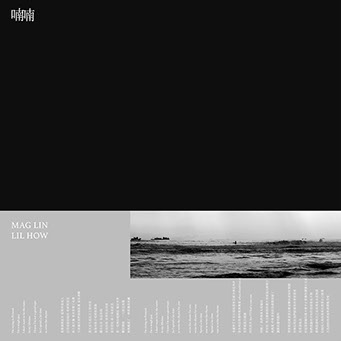
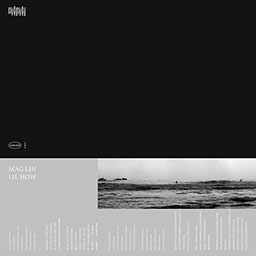
kkkk

diff --git a/subclub/css/site_global.css b/subclub/css/site_global.css
@@ -1,1 +1,1 @@
-html{min-height:100%;min-width:100%;-ms-text-size-adjust:none;}body,div,dl,dt,dd,ul,ol,li,nav,h1,h2,h3,h4,h5,h6,pre,code,form,fieldset,legend,input,button,textarea,p,blockquote,th,td,a{margin:0px;padding:0px;border-width:0px;border-style:solid;border-color:transparent;-webkit-transform-origin:left top;-ms-transform-origin:left top;-o-transform-origin:left top;transform-origin:left top;background-repeat:no-repeat;}button.submit-btn{-moz-box-sizing:content-box;-webkit-box-sizing:content-box;box-sizing:content-box;}.transition{-webkit-transition-property:background-image,background-position,background-color,border-color,border-radius,color,font-size,font-style,font-weight,letter-spacing,line-height,text-align,box-shadow,text-shadow,opacity;transition-property:background-image,background-position,background-color,border-color,border-radius,color,font-size,font-style,font-weight,letter-spacing,line-height,text-align,box-shadow,text-shadow,opacity;}.transition *{-webkit-transition:inherit;transition:inherit;}table{border-collapse:collapse;border-spacing:0px;}fieldset,img{border:0px;border-style:solid;-webkit-transform-origin:left top;-ms-transform-origin:left top;-o-transform-origin:left top;transform-origin:left top;}address,caption,cite,code,dfn,em,strong,th,var,optgroup{font-style:inherit;font-weight:inherit;}del,ins{text-decoration:none;}li{list-style:none;}caption,th{text-align:left;}h1,h2,h3,h4,h5,h6{font-size:100%;font-weight:inherit;}input,button,textarea,select,optgroup,option{font-family:inherit;font-size:inherit;font-style:inherit;font-weight:inherit;}.form-grp input,.form-grp textarea{-webkit-appearance:none;-webkit-border-radius:0;}body{font-family:Arial, Helvetica Neue, Helvetica, sans-serif;text-align:left;font-size:14px;line-height:17px;word-wrap:break-word;text-rendering:optimizeLegibility;-moz-font-feature-settings:'liga';-ms-font-feature-settings:'liga';-webkit-font-feature-settings:'liga';font-feature-settings:'liga';}a{color:inherit;text-decoration:inherit;}a:link{color:#FFFFFF;text-decoration:underline;}a:visited{color:#FFFFFF;text-decoration:underline;}a:hover{color:#FFFFFF;text-decoration:underline;}a:active{color:#FFFFFF;text-decoration:underline;}a.nontext{color:black;text-decoration:none;font-style:normal;font-weight:normal;}.normal_text{color:#000000;direction:ltr;font-family:Arial, Helvetica Neue, Helvetica, sans-serif;font-size:14px;font-style:normal;font-weight:normal;letter-spacing:0px;line-height:17px;text-align:left;text-decoration:none;text-indent:0px;text-transform:none;vertical-align:0px;padding:0px;}.list0 li:before{position:absolute;right:100%;letter-spacing:0px;text-decoration:none;font-weight:normal;font-style:normal;}.rtl-list li:before{right:auto;left:100%;}.nls-None > li:before,.nls-None .list3 > li:before,.nls-None .list6 > li:before{margin-right:6px;content:'•';}.nls-None .list1 > li:before,.nls-None .list4 > li:before,.nls-None .list7 > li:before{margin-right:6px;content:'○';}.nls-None,.nls-None .list1,.nls-None .list2,.nls-None .list3,.nls-None .list4,.nls-None .list5,.nls-None .list6,.nls-None .list7,.nls-None .list8{padding-left:34px;}.nls-None.rtl-list,.nls-None .list1.rtl-list,.nls-None .list2.rtl-list,.nls-None .list3.rtl-list,.nls-None .list4.rtl-list,.nls-None .list5.rtl-list,.nls-None .list6.rtl-list,.nls-None .list7.rtl-list,.nls-None .list8.rtl-list{padding-left:0px;padding-right:34px;}.nls-None .list2 > li:before,.nls-None .list5 > li:before,.nls-None .list8 > li:before{margin-right:6px;content:'-';}.nls-None.rtl-list > li:before,.nls-None .list1.rtl-list > li:before,.nls-None .list2.rtl-list > li:before,.nls-None .list3.rtl-list > li:before,.nls-None .list4.rtl-list > li:before,.nls-None .list5.rtl-list > li:before,.nls-None .list6.rtl-list > li:before,.nls-None .list7.rtl-list > li:before,.nls-None .list8.rtl-list > li:before{margin-right:0px;margin-left:6px;}.TabbedPanelsTab{white-space:nowrap;}.MenuBar .MenuBarView,.MenuBar .SubMenuView{display:block;list-style:none;}.MenuBar .SubMenu{display:none;position:absolute;}.NoWrap{white-space:nowrap;word-wrap:normal;}.rootelem{margin-left:auto;margin-right:auto;}.colelem{display:inline;float:left;clear:both;}.clearfix:after{content:"\0020";visibility:hidden;display:block;height:0px;clear:both;}*:first-child+html .clearfix{zoom:1;}.clip_frame{overflow:hidden;}.popup_anchor{position:relative;width:0px;height:0px;}.allow_click_through *{pointer-events:auto;}.popup_element{z-index:100000;}.svg{display:block;vertical-align:top;}span.wrap{content:'';clear:left;display:block;}span.actAsInlineDiv{display:inline-block;}.position_content,.excludeFromNormalFlow{float:left;}.preload_images{position:absolute;overflow:hidden;left:-9999px;top:-9999px;height:1px;width:1px;}.preload{height:1px;width:1px;}.animateStates{-webkit-transition:0.3s ease-in-out;-moz-transition:0.3s ease-in-out;-o-transition:0.3s ease-in-out;transition:0.3s ease-in-out;}[data-whatinput="mouse"] *:focus,[data-whatinput="touch"] *:focus,input:focus,textarea:focus{outline:none;}textarea{resize:none;overflow:auto;}.allow_click_through,.fld-prompt{pointer-events:none;}.wrapped-input{position:absolute;top:0px;left:0px;background:transparent;border:none;}.submit-btn{z-index:50000;cursor:pointer;}.anchor_item{width:22px;height:18px;}.MenuBar .SubMenuVisible,.MenuBarVertical .SubMenuVisible,.MenuBar .SubMenu .SubMenuVisible,.popup_element.Active,span.actAsPara,.actAsDiv,a.nonblock.nontext,img.block{display:block;}.widget_invisible,.js .invi,.js .mse_pre_init{visibility:hidden;}.ose_ei{visibility:hidden;z-index:0;}.no_vert_scroll{overflow-y:hidden;}.always_vert_scroll{overflow-y:scroll;}.always_horz_scroll{overflow-x:scroll;}.fullscreen{overflow:hidden;left:0px;top:0px;position:fixed;height:100%;width:100%;-moz-box-sizing:border-box;-webkit-box-sizing:border-box;-ms-box-sizing:border-box;box-sizing:border-box;}.fullwidth{position:absolute;}.borderbox{-moz-box-sizing:border-box;-webkit-box-sizing:border-box;-ms-box-sizing:border-box;box-sizing:border-box;}.scroll_wrapper{position:absolute;overflow:auto;left:0px;right:0px;top:0px;bottom:0px;padding-top:0px;padding-bottom:0px;margin-top:0px;margin-bottom:0px;}.browser_width > *{position:absolute;left:0px;right:0px;}.grpelem,.accordion_wrapper{display:inline;float:left;}.fld-checkbox input[type=checkbox],.fld-radiobutton input[type=radio]{position:absolute;overflow:hidden;clip:rect(0px, 0px, 0px, 0px);height:1px;width:1px;margin:-1px;padding:0px;border:0px;}.fld-checkbox input[type=checkbox] + label,.fld-radiobutton input[type=radio] + label{display:inline-block;background-repeat:no-repeat;cursor:pointer;float:left;width:100%;height:100%;}.pointer_cursor,.fld-recaptcha-mode,.fld-recaptcha-refresh,.fld-recaptcha-help{cursor:pointer;}p,h1,h2,h3,h4,h5,h6,ol,ul,span.actAsPara{max-height:1000000px;}.superscript{vertical-align:super;font-size:66%;line-height:0px;}.subscript{vertical-align:sub;font-size:66%;line-height:0px;}.horizontalSlideShow{-ms-touch-action:pan-y;touch-action:pan-y;}.verticalSlideShow{-ms-touch-action:pan-x;touch-action:pan-x;}.colelem100,.verticalspacer{clear:both;}.list0 li,.MenuBar .MenuItemContainer,.SlideShowContentPanel .fullscreen img,.css_verticalspacer .verticalspacer{position:relative;}.popup_element.Inactive,.js .disn,.js .an_invi,.hidden,.breakpoint{display:none;}#muse_css_mq{position:absolute;display:none;background-color:#FFFFFE;}.fluid_height_spacer{width:0.01px;}.muse_check_css{display:none;position:fixed;}@media screen and (-webkit-min-device-pixel-ratio:0){body{text-rendering:auto;}}
+html{min-height:100%;min-width:100%;-ms-text-size-adjust:none;}body,div,dl,dt,dd,ul,ol,li,nav,h1,h2,h3,h4,h5,h6,pre,code,form,fieldset,legend,input,button,textarea,p,blockquote,th,td,a{margin:0px;padding:0px;border-width:0px;border-style:solid;border-color:transparent;-webkit-transform-origin:left top;-ms-transform-origin:left top;-o-transform-origin:left top;transform-origin:left top;background-repeat:no-repeat;}button.submit-btn{-moz-box-sizing:content-box;-webkit-box-sizing:content-box;box-sizing:content-box;}.transition{-webkit-transition-property:background-image,background-position,background-color,border-color,border-radius,color,font-size,font-style,font-weight,letter-spacing,line-height,text-align,box-shadow,text-shadow,opacity;transition-property:background-image,background-position,background-color,border-color,border-radius,color,font-size,font-style,font-weight,letter-spacing,line-height,text-align,box-shadow,text-shadow,opacity;}.transition *{-webkit-transition:inherit;transition:inherit;}table{border-collapse:collapse;border-spacing:0px;}fieldset,img{border:0px;border-style:solid;-webkit-transform-origin:left top;-ms-transform-origin:left top;-o-transform-origin:left top;transform-origin:left top;}address,caption,cite,code,dfn,em,strong,th,var,optgroup{font-style:inherit;font-weight:inherit;}del,ins{text-decoration:none;}li{list-style:none;}caption,th{text-align:left;}h1,h2,h3,h4,h5,h6{font-size:100%;font-weight:inherit;}input,button,textarea,select,optgroup,option{font-family:inherit;font-size:inherit;font-style:inherit;font-weight:inherit;}.form-grp input,.form-grp textarea{-webkit-appearance:none;-webkit-border-radius:0;}body{font-family:Arial, Helvetica Neue, Helvetica, sans-serif;text-align:left;font-size:14px;line-height:17px;word-wrap:break-word;text-rendering:optimizeLegibility;-moz-font-feature-settings:'liga';-ms-font-feature-settings:'liga';-webkit-font-feature-settings:'liga';font-feature-settings:'liga';}a:link{color:#FFFFFF;text-decoration:underline;}a:visited{color:#FFFFFF;text-decoration:underline;}a:hover{color:#FFFFFF;text-decoration:underline;}a:active{color:#FFFFFF;text-decoration:underline;}a.nontext{color:black;text-decoration:none;font-style:normal;font-weight:normal;}.normal_text{color:#000000;direction:ltr;font-family:Arial, Helvetica Neue, Helvetica, sans-serif;font-size:14px;font-style:normal;font-weight:normal;letter-spacing:0px;line-height:17px;text-align:left;text-decoration:none;text-indent:0px;text-transform:none;vertical-align:0px;padding:0px;}.list0 li:before{position:absolute;right:100%;letter-spacing:0px;text-decoration:none;font-weight:normal;font-style:normal;}.rtl-list li:before{right:auto;left:100%;}.nls-None > li:before,.nls-None .list3 > li:before,.nls-None .list6 > li:before{margin-right:6px;content:'•';}.nls-None .list1 > li:before,.nls-None .list4 > li:before,.nls-None .list7 > li:before{margin-right:6px;content:'○';}.nls-None,.nls-None .list1,.nls-None .list2,.nls-None .list3,.nls-None .list4,.nls-None .list5,.nls-None .list6,.nls-None .list7,.nls-None .list8{padding-left:34px;}.nls-None.rtl-list,.nls-None .list1.rtl-list,.nls-None .list2.rtl-list,.nls-None .list3.rtl-list,.nls-None .list4.rtl-list,.nls-None .list5.rtl-list,.nls-None .list6.rtl-list,.nls-None .list7.rtl-list,.nls-None .list8.rtl-list{padding-left:0px;padding-right:34px;}.nls-None .list2 > li:before,.nls-None .list5 > li:before,.nls-None .list8 > li:before{margin-right:6px;content:'-';}.nls-None.rtl-list > li:before,.nls-None .list1.rtl-list > li:before,.nls-None .list2.rtl-list > li:before,.nls-None .list3.rtl-list > li:before,.nls-None .list4.rtl-list > li:before,.nls-None .list5.rtl-list > li:before,.nls-None .list6.rtl-list > li:before,.nls-None .list7.rtl-list > li:before,.nls-None .list8.rtl-list > li:before{margin-right:0px;margin-left:6px;}.TabbedPanelsTab{white-space:nowrap;}.MenuBar .MenuBarView,.MenuBar .SubMenuView{display:block;list-style:none;}.MenuBar .SubMenu{display:none;position:absolute;}.NoWrap{white-space:nowrap;word-wrap:normal;}.rootelem{margin-left:auto;margin-right:auto;}.colelem{display:inline;float:left;clear:both;}.clearfix:after{content:"\0020";visibility:hidden;display:block;height:0px;clear:both;}*:first-child+html .clearfix{zoom:1;}.clip_frame{overflow:hidden;}.popup_anchor{position:relative;width:0px;height:0px;}.allow_click_through *{pointer-events:auto;}.popup_element{z-index:100000;}.svg{display:block;vertical-align:top;}span.wrap{content:'';clear:left;display:block;}span.actAsInlineDiv{display:inline-block;}.position_content,.excludeFromNormalFlow{float:left;}.preload_images{position:absolute;overflow:hidden;left:-9999px;top:-9999px;height:1px;width:1px;}.preload{height:1px;width:1px;}.animateStates{-webkit-transition:0.3s ease-in-out;-moz-transition:0.3s ease-in-out;-o-transition:0.3s ease-in-out;transition:0.3s ease-in-out;}[data-whatinput="mouse"] *:focus,[data-whatinput="touch"] *:focus,input:focus,textarea:focus{outline:none;}textarea{resize:none;overflow:auto;}.allow_click_through,.fld-prompt{pointer-events:none;}.wrapped-input{position:absolute;top:0px;left:0px;background:transparent;border:none;}.submit-btn{z-index:50000;cursor:pointer;}.anchor_item{width:22px;height:18px;}.MenuBar .SubMenuVisible,.MenuBarVertical .SubMenuVisible,.MenuBar .SubMenu .SubMenuVisible,.popup_element.Active,span.actAsPara,.actAsDiv,a.nonblock.nontext,img.block{display:block;}.widget_invisible,.js .invi,.js .mse_pre_init{visibility:hidden;}.ose_ei{visibility:hidden;z-index:0;}.no_vert_scroll{overflow-y:hidden;}.always_vert_scroll{overflow-y:scroll;}.always_horz_scroll{overflow-x:scroll;}.fullscreen{overflow:hidden;left:0px;top:0px;position:fixed;height:100%;width:100%;-moz-box-sizing:border-box;-webkit-box-sizing:border-box;-ms-box-sizing:border-box;box-sizing:border-box;}.fullwidth{position:absolute;}.borderbox{-moz-box-sizing:border-box;-webkit-box-sizing:border-box;-ms-box-sizing:border-box;box-sizing:border-box;}.scroll_wrapper{position:absolute;overflow:auto;left:0px;right:0px;top:0px;bottom:0px;padding-top:0px;padding-bottom:0px;margin-top:0px;margin-bottom:0px;}.browser_width > *{position:absolute;left:0px;right:0px;}.grpelem,.accordion_wrapper{display:inline;float:left;}.fld-checkbox input[type=checkbox],.fld-radiobutton input[type=radio]{position:absolute;overflow:hidden;clip:rect(0px, 0px, 0px, 0px);height:1px;width:1px;margin:-1px;padding:0px;border:0px;}.fld-checkbox input[type=checkbox] + label,.fld-radiobutton input[type=radio] + label{display:inline-block;background-repeat:no-repeat;cursor:pointer;float:left;width:100%;height:100%;}.pointer_cursor,.fld-recaptcha-mode,.fld-recaptcha-refresh,.fld-recaptcha-help{cursor:pointer;}p,h1,h2,h3,h4,h5,h6,ol,ul,span.actAsPara{max-height:1000000px;}.superscript{vertical-align:super;font-size:66%;line-height:0px;}.subscript{vertical-align:sub;font-size:66%;line-height:0px;}.horizontalSlideShow{-ms-touch-action:pan-y;touch-action:pan-y;}.verticalSlideShow{-ms-touch-action:pan-x;touch-action:pan-x;}.colelem100,.verticalspacer{clear:both;}.list0 li,.MenuBar .MenuItemContainer,.SlideShowContentPanel .fullscreen img,.css_verticalspacer .verticalspacer{position:relative;}.popup_element.Inactive,.js .disn,.js .an_invi,.hidden,.breakpoint{display:none;}#muse_css_mq{position:absolute;display:none;background-color:#FFFFFE;}.fluid_height_spacer{width:0.01px;}.muse_check_css{display:none;position:fixed;}@media screen and (-webkit-min-device-pixel-ratio:0){body{text-rendering:auto;}}

diff --git a/subclub/css/index.css b/subclub/css/index.css
@@ -1,1 +1,1 @@
-.version.index{color:#0000E2;background-color:#D0A910;}#page{z-index:1;width:1024px;min-height:2033px;background-image:none;border-width:0px;border-color:#000000;background-color:transparent;margin-left:auto;margin-right:auto;}#u2139{z-index:2;min-height:1960px;background-color:#000000;padding-bottom:38px;}#toppppp{position:relative;margin-right:-10000px;width:22px;}#pu2278{z-index:27;width:0.01px;padding-bottom:0px;margin-right:-10000px;margin-top:83px;margin-left:100px;}#u2278{z-index:27;width:1024px;border-width:0px;border-color:transparent;background-color:transparent;position:relative;}#u2216{z-index:28;width:341px;background-color:transparent;position:relative;margin-right:-10000px;}#u2235{z-index:30;width:341px;background-color:transparent;position:relative;margin-right:-10000px;left:341px;}#u2245{z-index:32;width:341px;background-color:transparent;position:relative;margin-right:-10000px;left:683px;}#u2288{z-index:34;width:389px;background-color:transparent;margin-left:317px;margin-top:1478px;position:relative;}#u2130{z-index:16;width:50px;height:50px;position:relative;margin-right:-10000px;left:1174px;}.ie #u2130{background-color:#FFFFFF;opacity:0.01;-ms-filter:"progid:DXImageTransform.Microsoft.Alpha(Opacity=1)";filter:alpha(opacity=1);}.js body{visibility:hidden;}.js body.initialized{visibility:visible;}#u2139-bw{z-index:2;min-height:1960px;}.css_verticalspacer .verticalspacer{height:calc(100vh - 2059px);}#ppu2127-5{z-index:0;width:0.01px;padding-bottom:0px;margin-right:-10000px;margin-top:-1948px;margin-left:-100px;}#pu2127-5{z-index:3;width:0.01px;margin-left:1004px;}#u2127-5{z-index:3;width:50px;min-height:9px;background-color:transparent;color:#050505;text-align:center;font-size:11px;line-height:17px;font-family:Helvetica, Helvetica Neue, Arial, sans-serif;position:relative;margin-right:-10000px;}#u2127{color:#FFFFFF;}#u2129-4{z-index:12;width:38px;min-height:8px;background-color:transparent;color:#FFFFFF;text-align:center;font-size:11px;line-height:17px;font-family:Helvetica, Helvetica Neue, Arial, sans-serif;position:relative;margin-right:-10000px;left:66px;}#u2128-4{z-index:8;width:50px;min-height:8px;background-color:transparent;color:#FFFFFF;text-align:center;font-size:11px;line-height:17px;font-family:Helvetica, Helvetica Neue, Arial, sans-serif;position:relative;margin-right:-10000px;left:120px;}#u2129,#u2128{text-decoration:underline;}#u2162{z-index:17;min-height:50px;background-color:#000000;padding-bottom:62px;}#u2139_align_to_page,#u2162_align_to_page{margin-left:auto;margin-right:auto;position:relative;width:1024px;left:-100px;}#u2165{z-index:18;width:116px;background-color:transparent;position:relative;margin-right:-10000px;margin-top:41px;left:554px;}#u2167{z-index:20;width:25px;background-color:transparent;position:relative;margin-right:-10000px;margin-top:25px;left:1029px;}#u2169{z-index:22;width:25px;background-color:transparent;position:relative;margin-right:-10000px;margin-top:25px;left:1064px;}#u2171{z-index:24;width:25px;background-color:transparent;position:relative;margin-right:-10000px;margin-top:25px;left:1099px;}#u2162-bw{z-index:17;min-height:50px;margin-top:1881px;}#muse_css_mq,.html{background-color:#FFFFFF;}body{position:relative;min-width:1024px;}.verticalspacer{min-height:1px;}
+.version.index{color:#000002;background-color:#FD26A2;}#page{z-index:1;width:1024px;min-height:2033px;background-image:none;border-width:0px;border-color:#000000;background-color:transparent;margin-left:auto;margin-right:auto;}#u2139{z-index:2;min-height:1960px;background-color:#000000;padding-bottom:38px;}#toppppp{position:relative;margin-right:-10000px;width:22px;}#pu2322{z-index:29;width:0.01px;padding-bottom:0px;margin-right:-10000px;margin-top:83px;margin-left:100px;}#u2322{z-index:29;width:1024px;border-width:0px;border-color:transparent;background-color:transparent;position:relative;}#u2216{z-index:30;width:256px;background-color:transparent;position:relative;margin-right:-10000px;}#u2235{z-index:32;width:256px;background-color:transparent;position:relative;margin-right:-10000px;left:256px;}#u2245{z-index:34;width:256px;background-color:transparent;position:relative;margin-right:-10000px;left:512px;}#u2312{z-index:36;width:256px;background-color:transparent;position:relative;margin-right:-10000px;left:768px;}#u2288{z-index:27;width:389px;background-color:transparent;margin-left:317px;margin-top:1563px;position:relative;}#u2130{z-index:16;width:50px;height:50px;position:relative;margin-right:-10000px;left:1174px;}.ie #u2130{background-color:#FFFFFF;opacity:0.01;-ms-filter:"progid:DXImageTransform.Microsoft.Alpha(Opacity=1)";filter:alpha(opacity=1);}.js body{visibility:hidden;}.js body.initialized{visibility:visible;}#u2139-bw{z-index:2;min-height:1960px;}.css_verticalspacer .verticalspacer{height:calc(100vh - 2059px);}#ppu2127-5{z-index:0;width:0.01px;padding-bottom:0px;margin-right:-10000px;margin-top:-1948px;margin-left:-100px;}#pu2127-5{z-index:3;width:0.01px;margin-left:1004px;}#u2127-5{z-index:3;width:50px;min-height:9px;background-color:transparent;line-height:17px;text-align:center;font-size:11px;color:#050505;font-family:Helvetica, Helvetica Neue, Arial, sans-serif;position:relative;margin-right:-10000px;}#u2127{color:#FFFFFF;}#u2129-4{z-index:12;width:38px;min-height:8px;background-color:transparent;line-height:17px;text-align:center;font-size:11px;color:#FFFFFF;font-family:Helvetica, Helvetica Neue, Arial, sans-serif;position:relative;margin-right:-10000px;left:66px;}#u2128-4{z-index:8;width:50px;min-height:8px;background-color:transparent;line-height:17px;text-align:center;font-size:11px;color:#FFFFFF;font-family:Helvetica, Helvetica Neue, Arial, sans-serif;position:relative;margin-right:-10000px;left:120px;}#u2129,#u2128{text-decoration:underline;}#u2162{z-index:17;min-height:50px;background-color:#000000;padding-bottom:62px;}#u2139_align_to_page,#u2162_align_to_page{margin-left:auto;margin-right:auto;position:relative;width:1024px;left:-100px;}#u2165{z-index:18;width:116px;background-color:transparent;position:relative;margin-right:-10000px;margin-top:41px;left:554px;}#u2167{z-index:20;width:25px;background-color:transparent;position:relative;margin-right:-10000px;margin-top:25px;left:1029px;}#u2169{z-index:22;width:25px;background-color:transparent;position:relative;margin-right:-10000px;margin-top:25px;left:1064px;}#u2171{z-index:24;width:25px;background-color:transparent;position:relative;margin-right:-10000px;margin-top:25px;left:1099px;}#u2162-bw{z-index:17;min-height:50px;margin-top:1881px;}#muse_css_mq,.html{background-color:#FFFFFF;}body{position:relative;min-width:1024px;}.verticalspacer{min-height:1px;}

diff --git a/subclub/index.html b/subclub/index.html
@@ -15,8 +15,8 @@ if(typeof Muse == "undefined") window.Muse = {}; window.Muse.assets = {"required
   
   <title>Subclub</title>
   <!-- CSS -->
-  <link rel="stylesheet" type="text/css" href="css/site_global.css?crc=513467885"/>
-  <link rel="stylesheet" type="text/css" href="css/index.css?crc=3805325584" id="pagesheet"/>
+  <link rel="stylesheet" type="text/css" href="css/site_global.css?crc=4150625756"/>
+  <link rel="stylesheet" type="text/css" href="css/index.css?crc=50144930" id="pagesheet"/>
    </head>
  <body>
 
@@ -25,12 +25,15 @@ if(typeof Muse == "undefined") window.Muse = {}; window.Muse.assets = {"required
     <div id="u2139"><!-- group -->
      <div class="clearfix" id="u2139_align_to_page">
       <a class="anchor_item grpelem" id="toppppp"></a>
-      <div class="clearfix grpelem" id="pu2278"><!-- column -->
-       <div class="clearfix colelem" id="u2278"><!-- group -->
-        <a class="nonblock nontext clip_frame grpelem" id="u2216" href="https://pohsuchen1115.github.io/carolwine"><!-- image --><img class="block" id="u2216_img" src="images/final.jpg?crc=355433130" data-hidpi-src="images/final_2x.jpg?crc=111409143" alt="" width="341" height="341"/></a>
-        <a class="nonblock nontext clip_frame grpelem" id="u2235" href="https://pohsuchen1115.github.io/trapnerd"><!-- image --><img class="block" id="u2235_img" src="images/final-01.jpg?crc=3881627080" data-hidpi-src="images/final-01_2x.jpg?crc=3917866487" alt="" width="341" height="341"/></a>
+      <div class="clearfix grpelem" id="pu2322"><!-- column -->
+       <div class="clearfix colelem" id="u2322"><!-- group -->
+        <a class="nonblock nontext clip_frame grpelem" id="u2216" href="https://pohsuchen1115.github.io/carolwine"><!-- image --><img class="block" id="u2216_img" src="images/final.jpg?crc=437871432" data-hidpi-src="images/final_2x.jpg?crc=246974237" alt="" width="256" height="256"/></a>
+        <a class="nonblock nontext clip_frame grpelem" id="u2235" href="https://pohsuchen1115.github.io/trapnerd"><!-- image --><img class="block" id="u2235_img" src="images/final-01.jpg?crc=61524761" data-hidpi-src="images/final-01_2x.jpg?crc=4226142547" alt="" width="256" height="256"/></a>
         <div class="clip_frame grpelem" id="u2245"><!-- image -->
-         <img class="block" id="u2245_img" src="images/%e5%96%83%e5%96%83-01.jpg?crc=97323146" data-hidpi-src="images/%e5%96%83%e5%96%83-01_2x.jpg?crc=3858191959" alt="" width="341" height="341"/>
+         <img class="block" id="u2245_img" src="images/%e5%96%83%e5%96%83-01.jpg?crc=132771267" data-hidpi-src="images/%e5%96%83%e5%96%83-01_2x.jpg?crc=167092280" alt="" width="256" height="256"/>
+        </div>
+        <div class="clip_frame grpelem" id="u2312"><!-- image -->
+         <img class="block" id="u2312_img" src="images/dunpu-01.jpg?crc=202233622" data-hidpi-src="images/dunpu-01_2x.jpg?crc=4164763030" alt="" width="256" height="256"/>
         </div>
        </div>
        <div class="clip_frame colelem" id="u2288"><!-- image -->
